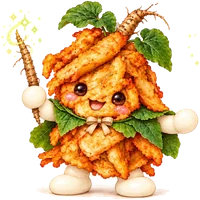
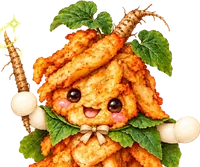
Bigger board with a slim top bar; rename characters
- Replace the left side panel with a compact top bar (avatar, moves,
  score, star bar, goals, icon buttons) so the board can grow to fill
  the screen; speech appears as a floating bubble
- The real-person chef is now Cod Uncle; his four expressions drive the
  avatar mood, and the map marker uses him
- Rename tiles to 炸鱈魚, 鱈蝦球, 鱈花枝, 沙拉鱈花枝, 鱈魚大叔, 牛蒡精靈
- Burdock sprite tile uses a head-and-shoulders crop and a larger size
- Remove artwork that is no longer referenced

Claude-Session: https://claude.ai/code/session_01SyTCwvPNoj331TfJTnuBVa

diff --git a/index.html b/index.html
@@ -78,57 +78,61 @@
   @keyframes hop { 50% { transform: translateY(-8px); } }
   .map-deco { position: absolute; pointer-events: none; opacity: .9; }
 
-  /* ===== 遊戲畫面 ===== */
+  /* ===== 遊戲畫面：上方一條資訊列，下面是盡量放大的棋盤 ===== */
   .app {
+    --size: min(96vw, calc(100vh - 112px), 760px);
     position: relative; height: 100%; z-index: 1;
-    display: flex; align-items: center; justify-content: center; gap: 24px;
-    padding: 16px;
+    display: flex; flex-direction: column; align-items: center; justify-content: center; gap: 10px;
+    padding: 8px;
   }
-  .side { width: 260px; display: flex; flex-direction: column; gap: 12px; align-items: stretch; }
-  .title { text-align: center; font-size: 24px; font-weight: 900; letter-spacing: 2px;
-    color: #fff; text-shadow: 0 3px 0 #5aa7d6, 0 5px 10px rgba(0,0,0,.15); margin: 0; }
-  .mascot-box { position: relative; background: var(--panel); border-radius: 24px; padding: 10px 8px 4px;
-    box-shadow: 0 6px 0 rgba(90,167,214,.35); }
-  .speech { position: relative; background: #fff; border-radius: 16px; padding: 8px 12px; font-weight: 700;
-    min-height: 40px; font-size: 15px; text-align: center; margin: 0 6px 4px; box-shadow: 0 2px 0 #e3eef7; }
-  .speech::after { content: ""; position: absolute; left: 38%; bottom: -10px; border: 6px solid transparent; border-top: 8px solid #fff; }
-  #mascot { position: relative; width: 100%; aspect-ratio: 1 / 1; }
-  #mascot.bounce { animation: bounce .6s ease; }
-  #mascot.shake { animation: shake .5s ease; }
-  @keyframes bounce { 0%,100% { transform: translateY(0); } 30% { transform: translateY(-14px) rotate(-3deg); } 60% { transform: translateY(0) rotate(2deg); } }
-  @keyframes shake { 0%,100% { transform: translateX(0); } 25% { transform: translateX(-6px); } 75% { transform: translateX(6px); } }
-  .mascot-float { position: absolute; inset: 0; animation: float 3s ease-in-out infinite; transform-origin: bottom center; }
-  @keyframes float { 50% { transform: translateY(-5px) scaleY(1.02); } }
-  #mascot .pose { position: absolute; inset: 0; width: 100%; height: 100%; object-fit: contain; display: none; }
-  #mascot[data-mood="normal"] .pose-front,
-  #mascot[data-mood="happy"] .pose-front,
-  #mascot[data-mood="wow"] .pose-side,
-  #mascot[data-mood="sad"] .pose-side { display: block; }
-  /* 難過時：側身、低頭、顏色變淡（不使用背面） */
-  #mascot[data-mood="sad"] .pose-side { transform: rotate(10deg) translateY(4%); filter: saturate(.55) brightness(.97); }
-
-  .stats { background: var(--panel); border-radius: 20px; padding: 10px 12px;
-    display: grid; grid-template-columns: 1fr 1fr; gap: 6px; text-align: center; box-shadow: 0 6px 0 rgba(90,167,214,.35); }
-  .stat .lbl { font-size: 12px; opacity: .7; font-weight: 700; }
-  .stat .val { font-size: 22px; font-weight: 900; }
-  .stat.moves .val { color: #ff6f9f; }
-  .goals { grid-column: 1 / -1; display: flex; justify-content: center; gap: 8px; flex-wrap: wrap; }
-  .goal { position: relative; width: 52px; text-align: center; font-weight: 900; font-size: 15px; }
-  .goal img { width: 40px; height: 40px; object-fit: contain; display: block; margin: 0 auto; }
+  @supports (height: 100dvh) { .app { --size: min(96vw, calc(100dvh - 112px), 760px); } }
+  .hud {
+    position: relative; width: var(--size); display: flex; align-items: center; gap: 10px;
+    background: var(--panel); border-radius: 20px; padding: 6px 10px; box-shadow: 0 5px 0 rgba(90,167,214,.35);
+  }
+  /* 鱈魚大叔頭像：依遊戲狀況換表情 */
+  .avatar { position: relative; flex: none; width: 60px; height: 60px; border-radius: 50%; overflow: hidden;
+    background: #fff; box-shadow: 0 0 0 3px #fff, 0 2px 6px rgba(0,0,0,.18); }
+  .avatar img { position: absolute; inset: 0; width: 100%; height: 100%; object-fit: cover; object-position: 50% 6%; display: none; }
+  .avatar[data-mood="normal"] img[data-m="normal"], .avatar[data-mood="happy"] img[data-m="happy"],
+  .avatar[data-mood="wow"] img[data-m="happy"], .avatar[data-mood="sad"] img[data-m="sad"],
+  .avatar[data-mood="angry"] img[data-m="angry"] { display: block; }
+  .avatar.bounce { animation: bounce .6s ease; }
+  .avatar.shake { animation: shake .5s ease; }
+  @keyframes bounce { 0%,100% { transform: translateY(0); } 30% { transform: translateY(-8px) rotate(-6deg); } 60% { transform: translateY(0) rotate(4deg); } }
+  @keyframes shake { 0%,100% { transform: translateX(0); } 25% { transform: translateX(-5px); } 75% { transform: translateX(5px); } }
+  /* 對話泡泡：說話時才出現，浮在棋盤上方，不佔版面 */
+  .speech { position: absolute; left: 8px; top: calc(100% + 10px); z-index: 10; max-width: min(78%, 360px);
+    background: #fff; border-radius: 14px; padding: 7px 12px; font-weight: 800; font-size: 14px;
+    box-shadow: 0 4px 12px rgba(40,80,120,.25); opacity: 0; transform: translateY(-6px); transition: .2s; pointer-events: none; }
+  .speech.show { opacity: 1; transform: none; }
+  .speech::before { content: ""; position: absolute; left: 26px; top: -12px; border: 7px solid transparent; border-bottom: 7px solid #fff; }
+  .hud-info { flex: 1; min-width: 0; }
+  .hud-title { font-size: 13px; font-weight: 900; opacity: .75; }
+  .hud-nums { display: flex; gap: 14px; align-items: baseline; }
+  .hud-nums b { font-size: 22px; font-weight: 900; }
+  .hud-nums small { font-size: 12px; font-weight: 800; opacity: .7; margin-left: 2px; }
+  .hud-nums .moves b { color: #ff6f9f; }
+  .goals { display: flex; justify-content: center; gap: 6px; }
+  .goal { position: relative; width: 46px; text-align: center; font-weight: 900; font-size: 14px; }
+  .goal img { width: 38px; height: 38px; object-fit: contain; display: block; margin: 0 auto; }
   .goal.done span { color: #27a35a; }
   .goal img.gbg { background: #ffe9d6; border-radius: 10px; box-shadow: inset 0 0 0 2px #f5c9a6; }
-  .goal .gicon { display: block; height: 40px; font-size: 30px; line-height: 40px; }
+  .goal .gicon { display: block; height: 38px; font-size: 28px; line-height: 38px; }
   .dlg-goals .goal .gicon { height: 48px; font-size: 36px; line-height: 48px; }
   .goal.bump img { animation: bump .3s ease; }
   @keyframes bump { 50% { transform: scale(1.3); } }
-  .progress { grid-column: 1 / -1; height: 16px; background: #e6f2fb; border-radius: 99px; position: relative; margin: 4px 4px 2px; }
+  .progress { height: 12px; background: #e6f2fb; border-radius: 99px; position: relative; margin: 3px 8px 2px 0; }
   .progress .fill { height: 100%; width: 0; border-radius: 99px; background: linear-gradient(90deg, #ffd84d, #ff9ec7); transition: width .4s ease; }
-  .progress .pstar { position: absolute; top: 50%; transform: translate(-50%, -50%); font-size: 16px; filter: grayscale(1); opacity: .45; transition: .3s; }
+  .progress .pstar { position: absolute; top: 50%; transform: translate(-50%, -50%); font-size: 14px; filter: grayscale(1); opacity: .45; transition: .3s; }
   .progress .pstar.on { filter: none; opacity: 1; transform: translate(-50%, -50%) scale(1.15); }
-  .buttons { display: flex; gap: 8px; }
+  .hud-btns { display: flex; gap: 6px; flex: none; }
+  .icon-btn { width: 38px; height: 38px; border: 0; border-radius: 12px; background: #fff; font-size: 18px; cursor: pointer;
+    box-shadow: 0 3px 0 #cfe3f2; padding: 0; }
+  .icon-btn:active { transform: translateY(2px); box-shadow: 0 1px 0 #cfe3f2; }
 
   /* 棋盤 */
-  .board-wrap { --size: min(92vw, 78vh, 580px); width: var(--size); height: var(--size); padding: 10px; }
+  .board-wrap { width: var(--size); height: var(--size); padding: 6px; flex: none; }
   .board { position: relative; width: 100%; height: 100%; touch-action: none; }
   /* 棋盤形狀：只畫有格子的地方，外面加白邊和陰影 */
   .shape { position: absolute; inset: 0; filter: drop-shadow(0 0 0 #fff) drop-shadow(0 0 3px #fff) drop-shadow(0 6px 0 rgba(90,167,214,.4)); }
@@ -143,6 +147,7 @@
   .tile .plate use { stroke: #fff; stroke-width: 5; paint-order: stroke; }
   .tile img.char { position: absolute; left: 12%; top: 9%; width: 76%; height: 80%; object-fit: contain; pointer-events: none;
     filter: drop-shadow(0 2px 1px rgba(0,0,0,.18)); }
+  .tile img.char.big { left: 3%; top: 4%; width: 94%; height: 90%; }
   .tile.selected .inner { transform: scale(1.15); animation: wiggle .5s ease-in-out infinite; }
   .tile.hint .inner { animation: wiggle .6s ease-in-out infinite; }
   @keyframes wiggle { 0%,100% { rotate: -6deg; } 50% { rotate: 6deg; } }
@@ -230,23 +235,13 @@
   .howto { text-align: left; font-size: 14px; background: #f3f9fe; border-radius: 16px; padding: 10px 14px; margin: 10px 0 14px; }
   .howto div { margin: 4px 0; }
 
-  /* 手機直向 */
-  @media (max-width: 760px), (max-aspect-ratio: 1/1) {
-    .app { flex-direction: column; gap: 10px; justify-content: flex-start; padding-top: 10px; }
-    .side { width: min(92vw, 580px); display: grid; grid-template-columns: 96px 1fr; grid-template-areas: "m t" "m s" "b b"; gap: 8px; }
-    .title { grid-area: t; font-size: 18px; text-align: left; align-self: end; }
-    .mascot-box { grid-area: m; padding: 4px; border-radius: 18px; }
-    .speech { display: none; }
-    .stats { grid-area: s; padding: 6px 8px; gap: 2px 6px; grid-template-columns: auto auto 1fr; align-items: center; }
-    .stats .goals { grid-column: auto; grid-row: span 1; }
-    .stat .val { font-size: 17px; }
-    .stat .lbl { font-size: 11px; }
-    .goal { width: 40px; font-size: 13px; }
-    .goal img { width: 30px; height: 30px; }
-    .goal .gicon { height: 30px; font-size: 22px; line-height: 30px; }
-    .buttons { grid-area: b; }
-    .btn { padding: 8px; font-size: 14px; }
-    .board-wrap { --size: min(94vw, calc(100vh - 230px), 580px); padding: 6px; border-radius: 20px; }
+  /* 窄螢幕（手機直向）：資訊列分兩行，目標放第二行 */
+  @media (max-width: 560px) {
+    .app { justify-content: flex-start; padding-top: 10px; --size: min(96vw, calc(100vh - 170px)); }
+    .hud { flex-wrap: wrap; row-gap: 4px; padding: 6px 8px; }
+    .avatar { width: 52px; height: 52px; }
+    .goals { order: 5; width: 100%; border-top: 1px dashed #d5e6f2; padding-top: 4px; }
+    .icon-btn { width: 34px; height: 34px; font-size: 16px; }
     .cell-bg { padding: 2px; }
     .cell-bg::before { border-radius: 10px; }
   }
@@ -287,27 +282,26 @@
 
 <!-- ===== 遊戲 ===== -->
 <section class="app hidden" id="gameScreen">
-  <aside class="side">
-    <h1 class="title" id="levelTitle">第 1 關</h1>
-    <div class="mascot-box">
-      <div class="speech" id="speech">小朋友，陪大叔消一消吧！</div>
-      <div id="mascot" data-mood="normal"><div class="mascot-float">
-        <img class="pose pose-front" src="assets/cod-front.webp" alt="鱈魚大叔">
-        <img class="pose pose-side" src="assets/cod-side.webp" alt="">
-      </div></div>
+  <header class="hud">
+    <div class="avatar" id="mascot" data-mood="normal">
+      <img data-m="normal" src="assets/chef-happy.webp" alt="鱈魚大叔">
+      <img data-m="happy" src="assets/chef-laugh.webp" alt="">
+      <img data-m="sad" src="assets/chef-cry.webp" alt="">
+      <img data-m="angry" src="assets/chef-angry.webp" alt="">
     </div>
-    <div class="stats">
-      <div class="stat moves"><div class="lbl">步數</div><div class="val" id="moves">0</div></div>
-      <div class="stat"><div class="lbl">分數</div><div class="val" id="score">0</div></div>
-      <div class="goals" id="goals"></div>
+    <div class="speech" id="speech"></div>
+    <div class="hud-info">
+      <div class="hud-title" id="levelTitle">第 1 關</div>
+      <div class="hud-nums"><span class="moves"><b id="moves">0</b><small>步</small></span><span><b id="score">0</b><small>分</small></span></div>
       <div class="progress" id="progress"><div class="fill" id="bar"></div></div>
     </div>
-    <div class="buttons">
-      <button class="btn" id="btnMap">🗺 地圖</button>
-      <button class="btn" id="btnSound">🔊 音效</button>
-      <button class="btn" id="btnHelp">玩法</button>
+    <div class="goals" id="goals"></div>
+    <div class="hud-btns">
+      <button class="icon-btn" id="btnMap" title="回地圖">🗺</button>
+      <button class="icon-btn" id="btnSound" title="音效">🔊</button>
+      <button class="icon-btn" id="btnHelp" title="玩法">❔</button>
     </div>
-  </aside>
+  </header>
   <main class="board-wrap"><div class="board" id="board"></div></main>
 </section>
 
@@ -320,20 +314,20 @@
   /* ---------- 角色 ---------- */
   // 六種消除方塊：每一種都是不同角色的正面，底下墊不同顏色與形狀的盤子
   const TILES = [
-    { img: 'assets/tile-cod.webp',     color: '#ffe27a', name: '鱈魚大叔' },
-    { img: 'assets/tile-shrimp.webp',  color: '#ffb3cf', name: '蝦餅小子' },
-    { img: 'assets/tile-horn.webp',    color: '#9fd4ff', name: '小角角' },
-    { img: 'assets/tile-popcorn.webp', color: '#d5c2ff', name: '糖霜米花' },
-    { img: 'assets/tile-chef.webp',    color: '#bdea8a', name: '主廚大叔' },
-    { img: 'assets/tile-root.webp',    color: '#7fdcd0', name: '牛蒡精靈' },
+    { img: 'assets/tile-cod.webp',     color: '#ffe27a', name: '炸鱈魚' },
+    { img: 'assets/tile-shrimp.webp',  color: '#ffb3cf', name: '鱈蝦球' },
+    { img: 'assets/tile-horn.webp',    color: '#9fd4ff', name: '鱈花枝' },
+    { img: 'assets/tile-popcorn.webp', color: '#d5c2ff', name: '沙拉鱈花枝' },
+    { img: 'assets/tile-chef.webp',    color: '#bdea8a', name: '鱈魚大叔' },
+    { img: 'assets/tile-root.webp',    color: '#7fdcd0', name: '牛蒡精靈', big: true },
   ];
   const COLORS = TILES.map(t => t.color);
-  // 主廚大叔的四種表情
+  // 鱈魚大叔的四種表情
   const CHEF = { happy: 'assets/chef-happy.webp', angry: 'assets/chef-angry.webp', cry: 'assets/chef-cry.webp', laugh: 'assets/chef-laugh.webp' };
   const ICE_IMG = ['', 'assets/ice-1.webp', 'assets/ice-2.webp', 'assets/ice-3.webp'];
   const MAYO_IMG = ['', 'assets/mayo-1.webp', 'assets/mayo-2.webp'];
   const SEASON_IMG = ['', 'assets/season-1.webp', 'assets/season-2.webp'];
-  [...TILES.map(t => t.img), ...Object.values(CHEF), ...ICE_IMG.slice(1), ...MAYO_IMG.slice(1), ...SEASON_IMG.slice(1), 'assets/cod-side.webp', 'assets/tile-cod-side.webp', 'assets/popcorn.webp']
+  [...TILES.map(t => t.img), ...Object.values(CHEF), ...ICE_IMG.slice(1), ...MAYO_IMG.slice(1), ...SEASON_IMG.slice(1), 'assets/tile-cod-side.webp', 'assets/popcorn.webp']
     .forEach(src => { new Image().src = src; });
 
   /* ---------- 關卡 ----------
@@ -444,9 +438,12 @@
   };
 
   /* ---------- 吉祥物 ---------- */
-  let moodTimer = null;
+  let moodTimer = null, speechTimer = null;
   function say(text, mood = 'normal', anim = 'bounce', hold = 1800) {
     speechEl.textContent = text;
+    speechEl.classList.add('show');
+    clearTimeout(speechTimer);
+    speechTimer = setTimeout(() => speechEl.classList.remove('show'), Math.max(hold, 2200));
     mascotEl.dataset.mood = mood;
     mascotEl.classList.remove('bounce', 'shake'); void mascotEl.offsetWidth;
     if (anim) mascotEl.classList.add(anim);
@@ -462,7 +459,7 @@
     const d = TILES[t.type];
     const fx = t.special ? `<div class="fx ${t.special}"></div>` : '';
     return `<div class="inner"><svg class="plate" viewBox="0 0 100 100"><use href="#p${t.type}" fill="${d.color}"/></svg>` +
-      `<img class="char" src="${d.img}" alt="" draggable="false">${fx}</div>`;
+      `<img class="char${d.big ? ' big' : ''}" src="${d.img}" alt="" draggable="false">${fx}</div>`;
   }
   function setPos(el, r, c) { el.style.transform = `translate(${c * 100}%, ${r * 100}%)`; }
   function makeTile(type, special, r, c, startRow = r) {
@@ -798,7 +795,7 @@
         say(line || '好棒棒！', combo >= 4 ? 'wow' : 'happy');
       } else if (creates.size) {
         const s = [...creates.values()][0].special;
-        say(s === 'bomb' ? '彩虹大叔登場！交給我！' : s === 'area' ? '發光炸彈！砰砰砰～' : '條紋方塊！一條線掃光光！', 'happy');
+        say(s === 'bomb' ? '彩虹炸鱈魚登場！' : s === 'area' ? '發光炸彈！砰砰砰～' : '條紋方塊！一條線掃光光！', 'happy');
       }
       await clearCells(clear, creates, combo);
       await gravity();
@@ -809,7 +806,7 @@
 
   async function bombSwap(a, ra, ca, b, rb, cb) {
     sfx.special();
-    say('鱈魚大叔出動！', 'wow');
+    say('彩虹炸鱈魚出動！', 'wow');
     const clear = new Set([key(ra, ca), key(rb, cb)]);
     if (a.special === 'bomb' && b.special === 'bomb') {
       banner('全場清空！');
@@ -835,7 +832,7 @@
     if (busy || !inside(r2, c2) || !grid[r1][c1] || !grid[r2][c2]) return;
     if (season[r1][c1] || season[r2][c2]) {
       sfx.bad();
-      say('被調味料黏住了！在旁邊湊成一排就能清掉', 'sad', 'shake', 1600);
+      say('被調味料黏住了！把它湊進一排就能清掉', 'angry', 'shake', 1600);
       const t = season[r1][c1] || season[r2][c2];
       t.el.classList.remove('hit'); void t.el.offsetWidth; t.el.classList.add('hit');
       return;
@@ -858,8 +855,7 @@
       swapModel(r1, c1, r2, c2);
       setPos(a.el, r1, c1); setPos(b.el, r2, c2);
       sfx.bad();
-      cheer(CHEF.angry, true);
-      say('欸…這樣不行啦', 'sad', 'shake', 1400);
+      say('欸…這樣不行啦', 'angry', 'shake', 1400);
       await sleep(190);
       busy = false; scheduleHint();
       return;
@@ -1093,11 +1089,11 @@
         <div>✨ 三個以上同樣的排成一線就會消除</div>
         <div>🎯 在步數用完前完成關卡目標就過關</div>
         <div><img src="${ICE_IMG[3]}" alt=""> 冰塊：在旁邊消除就能敲裂，要敲 1～3 下</div>
-        <div><img src="${MAYO_IMG[2]}" alt=""> 美乃滋：鋪在角色底下，在上面消除就會變薄、消失</div>
+        <div><img src="${MAYO_IMG[2]}" alt=""> 美乃滋：蓋在格子上（角色還能移動），在那一格消除就會變薄、消失</div>
         <div><img src="${SEASON_IMG[2]}" alt=""> 調味料：角色被黏住不能移動，把它湊進一排就能清掉一層</div>
         <div>➖ 連成 4 個 → <b>條紋方塊</b>，直線清除一整排</div>
         <div>💥 排成 L 或 T 形 → <b>發光方塊</b>，炸開周圍 3×3</div>
-        <div><img src="assets/tile-cod-side.webp" alt=""> 連成 5 個 → <b>彩虹鱈魚大叔</b>！和任何方塊交換，同一種全部消光</div>
+        <div><img src="assets/tile-cod-side.webp" alt=""> 連成 5 個 → <b>彩虹炸鱈魚</b>！和任何方塊交換，同一種全部消光</div>
         <div><svg viewBox="0 0 60 40" width="26" height="18" style="vertical-align:middle"><use href="#fish"/></svg> 沒過關會失去 1 隻小魚，每 20 分鐘游回 1 隻</div>
       </div>
       <button class="btn primary" id="go">知道了</button>`;
@@ -1132,7 +1128,7 @@
       html += `<button class="node ${cls}" data-i="${i}" style="left:${x}%;top:${y}px">${unlocked ? i + 1 : '🔒'}${starRow}</button>`;
     });
     const at = current === -1 ? n - 1 : current;
-    html += `<img class="marker" src="assets/cod-front.webp" alt="" style="left:${pts[at][0]}%;top:${pts[at][1] - 100}px">`;
+    html += `<img class="marker" src="${CHEF.happy}" alt="" style="left:${pts[at][0]}%;top:${pts[at][1] - 100}px">`;
     path.innerHTML = html;
     path.querySelectorAll('.node:not(.locked)').forEach(b => { b.onclick = () => levelIntro(+b.dataset.i); });
     const scroll = $('mapScroll');

diff --git a/README.md b/README.md
@@ -1,6 +1,6 @@
 # 鱈魚大叔消消樂 🐟
 
-以我們的吉祥物「鱈魚大叔」和夥伴們為主角、玩法類似 Candy Crush 的可愛三消遊戲。
+以「鱈魚大叔」和炸物夥伴們為主角、玩法類似 Candy Crush 的可愛三消遊戲。
 單一 HTML 檔案，不需要安裝任何東西，電腦和手機都能玩。
 
 **線上玩：** https://viola2photo.github.io/cod-uncle-match/
@@ -25,7 +25,7 @@
 | --- | --- |
 | 連成 4 個 | 條紋方塊（清掉一整排或一整列） |
 | 排成 L / T 形 | 發光方塊（清掉周圍 3×3） |
-| 連成 5 個 | **彩虹鱈魚大叔**！和任何方塊交換，同一種全部消光；兩個大叔交換＝全場清空 |
+| 連成 5 個 | **彩虹炸鱈魚**！和任何方塊交換，同一種全部消光；兩個彩虹炸鱈魚交換＝全場清空 |
 
 ### 棋盤形狀
 
@@ -37,7 +37,7 @@
 | 障礙物 | 層數 | 怎麼清掉 |
 | --- | --- | --- |
 | 冰塊 | 1～3 | 在**旁邊消除**或被特殊方塊打到，敲一下裂一層；冰塊固定不動，方塊從它後面穿過 |
-| 美乃滋網 | 1～2 | 在它**上面消除**（或被特殊方塊打到）就變薄一層 |
+| 美乃滋網 | 1～2 | 角色**還能移動**；要在那一格**消除**（或被特殊方塊打到）才會變薄一層，目的是逼玩家去消特定位置 |
 | 調味料（辣椒粉 → 胡椒粒） | 1～2 | 角色被黏住**不能移動也不會掉落**；把它**湊進一排**消除一次就清掉一層 |
 
 ### 小魚生命
@@ -52,19 +52,19 @@
 
 | # | 角色 | 盤子 |
 | --- | --- | --- |
-| 1 | 鱈魚大叔 | 黃色圓形 |
-| 2 | 蝦餅小子 | 粉紅方形 |
-| 3 | 小角角 | 藍色六角形 |
-| 4 | 糖霜米花 | 紫色花形 |
-| 5 | 主廚大叔 | 綠色菱形 |
+| 1 | 炸鱈魚 | 黃色圓形 |
+| 2 | 鱈蝦球 | 粉紅方形 |
+| 3 | 鱈花枝 | 藍色六角形 |
+| 4 | 沙拉鱈花枝 | 紫色花形 |
+| 5 | 鱈魚大叔 | 綠色菱形 |
 | 6 | 牛蒡精靈 | 青色膠囊形 |
 
 ### 演出
 
-- 左側面板的鱈魚大叔：平常正面，驚訝時轉側面，難過時側身低頭（遊戲裡不使用背面）。
-- 主廚大叔的四種表情：換錯位置會**生氣**、4 連鎖以上**大笑**、過關**開心跳起來**、失敗**大哭**。
-- 3 連鎖時糖霜米花跳出來歡呼。
-- 鱈魚大叔的側面用在「彩虹鱈魚大叔」特殊方塊。
+- 畫面上方資訊列的頭像是**鱈魚大叔**，表情會跟著遊戲變：平常開心、連鎖大笑、換錯位置生氣、失敗大哭。說話時會冒出對話泡泡。
+- 4 連鎖以上鱈魚大叔大笑跳出來；3 連鎖時沙拉鱈花枝跳出來歡呼。
+- 過關畫面鱈魚大叔開心跳起來，失敗畫面大哭。
+- 炸鱈魚的側面用在「彩虹炸鱈魚」特殊方塊。
 
 ## 修改
 
